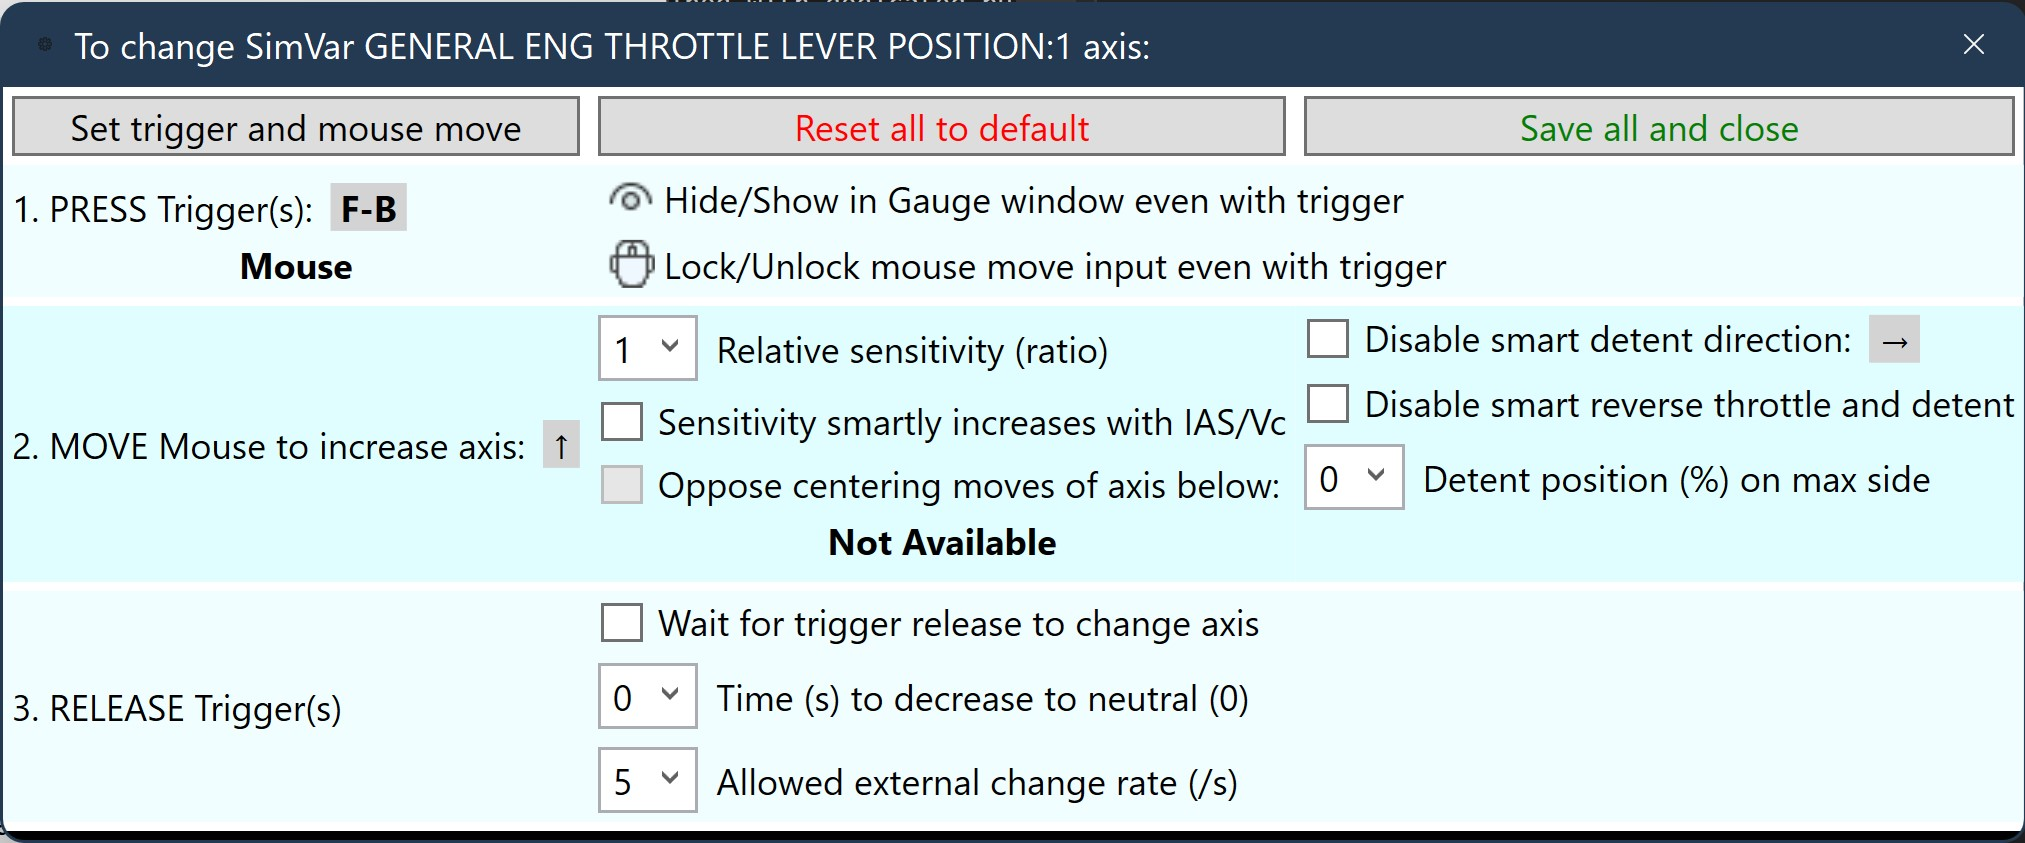
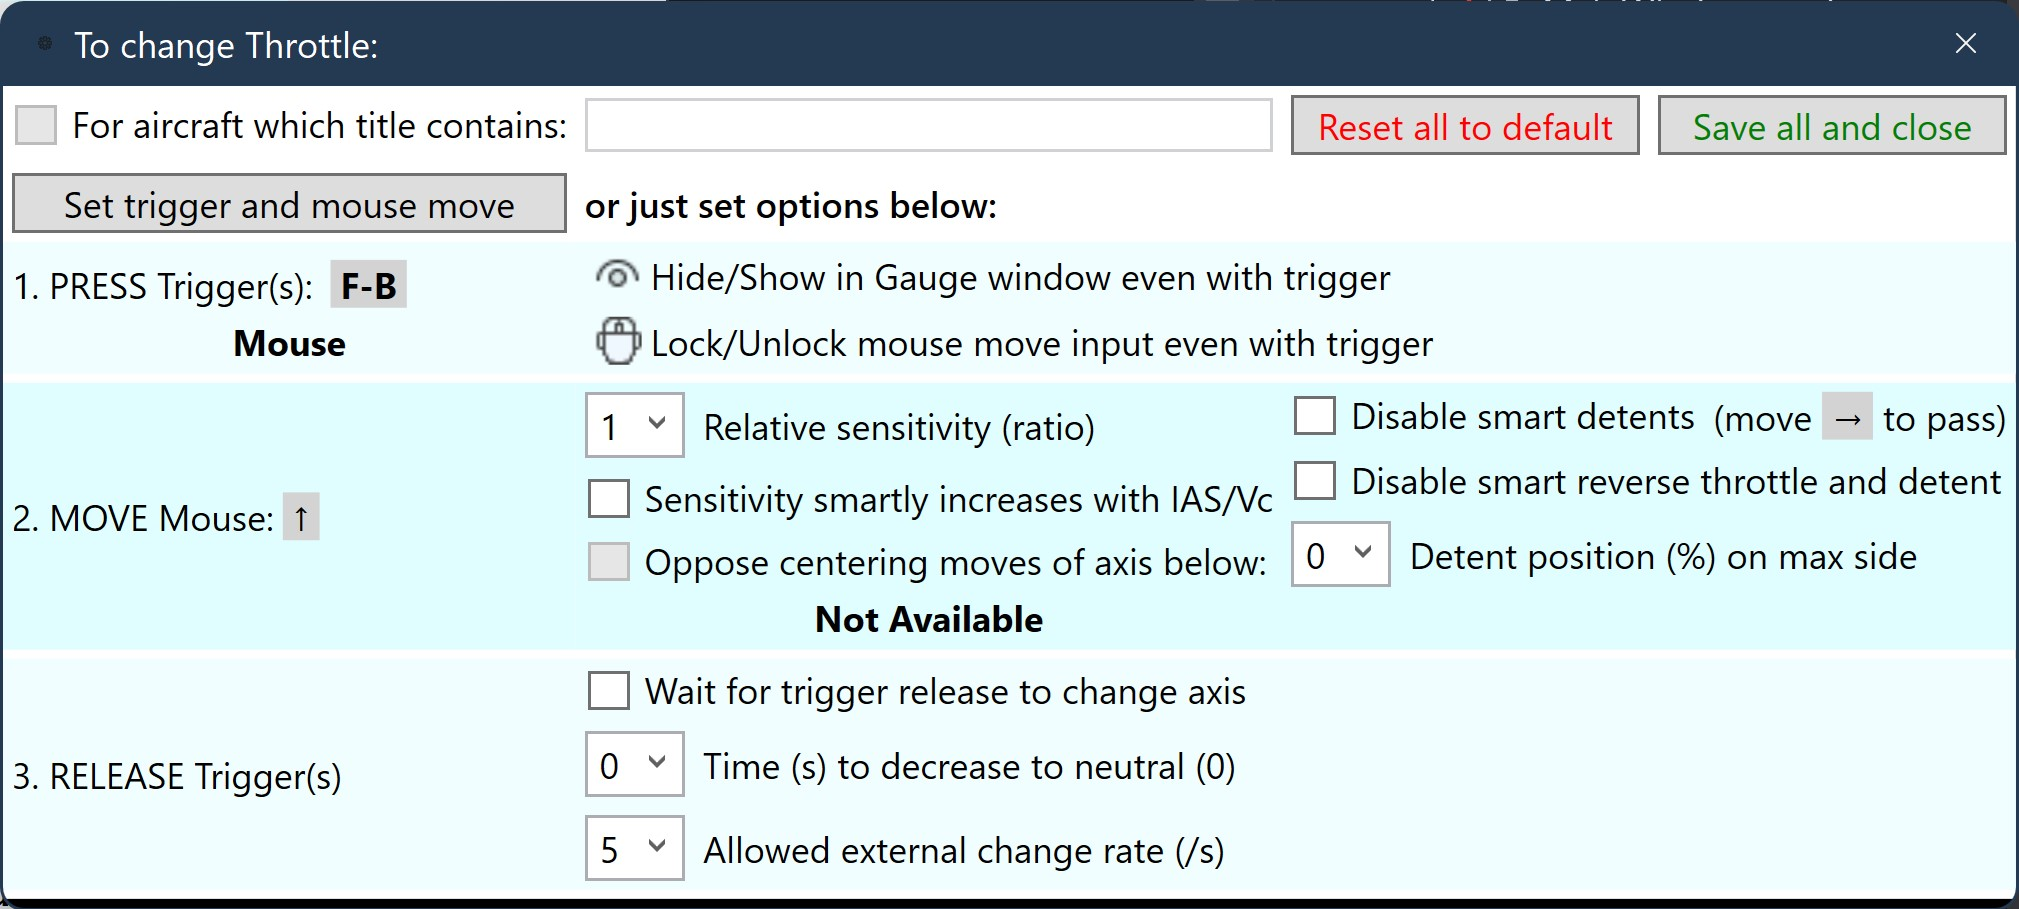
Fix specific settings for aircraft with invalid file chars in name like F/A 18E Adjust jets positive detent WIP Support negative propeller range (turboprop feather)

diff --git a/Source/MainWindow.xaml b/Source/MainWindow.xaml
@@ -126,7 +126,7 @@
             <CheckBox DockPanel.Dock="Left" Style="{StaticResource HideShow}"  
                     IsChecked="{Binding Source={x:Static properties:Settings.Default}, Path=GaugeHidden, Mode=TwoWay}"
                     ToolTip="Hide/Show Gauge window"/>
-            <TextBlock><Run Text="Hide/Show "/><Run Text="Gauge"/><Run Text="s"/><Run Text=" window"/></TextBlock>
+            <TextBlock>Hide/Show Gauges window</TextBlock>
         </DockPanel>
         <DockPanel Margin="0 3 0 0"
                     Visibility="{Binding Source={x:Static properties:Settings.Default}, Path=GaugeSettingsVisible, Converter={StaticResource B2V}}">
@@ -139,7 +139,7 @@
                 <ComboBoxItem>10</ComboBoxItem>
                 <ComboBoxItem>8</ComboBoxItem>
             </ComboBox>
-            <TextBlock><Run Text="Gauge"/><Run Text="s"/><Run Text=" window text size (pt)"/></TextBlock>
+            <TextBlock>Gauges window text size (pt)</TextBlock>
         </DockPanel>
         <DockPanel Margin="0 3 0 0"
                     Visibility="{Binding Source={x:Static properties:Settings.Default}, Path=GaugeSettingsVisible, Converter={StaticResource B2V}}">
@@ -166,7 +166,7 @@
             <TextBlock>Gauge scales width (px)</TextBlock>
         </DockPanel>
         </StackPanel>
-        <TextBlock Margin="0 6 0 0" TextWrapping="Wrap" FontWeight="Bold"><Run Text="Adjust mouse move sensitivity "/><Run Text="if "/><Run Text="needed:"/></TextBlock>
+        <TextBlock Margin="0 6 0 0" TextWrapping="Wrap" FontWeight="Bold">Adjust mouse move sensitivity if needed:</TextBlock>
         <DockPanel Margin="0 3 0 0">
             <ComboBox DockPanel.Dock="Left" Margin="0 0 3 0" Width="50" IsEditable="True"
                 Text="{Binding Source={x:Static properties:Settings.Default}, Path=Sensitivity}">

diff --git a/Source/Axis.cs b/Source/Axis.cs
@@ -249,12 +249,13 @@ namespace HandOnMouse
         }
         public string Save(string aircraftPattern = "")
         {
+            aircraftPattern = aircraftPattern ?? "";
             if (Id < 0)
             {
                 return $"Cannot save axis not correctly read from: {MappingsFilePath}";
             }
             var errors = "";
-            var customFilePath = $"{Path.ChangeExtension(MappingsFilePath, null)}_{MappingName.Replace(":", " ")}_{aircraftPattern ?? ""}.ini";
+            var customFilePath = Path.ChangeExtension(MappingsFilePath, null)+ValidFileName($"_{MappingName}_{aircraftPattern}.ini");
             if (ExternalName.Length > 0)
             {
                 try
@@ -285,17 +286,17 @@ namespace HandOnMouse
         }
         public string Reset(string aircraftPattern)
         {
+            aircraftPattern = ValidFileName(aircraftPattern ?? "");
             if (Id < 0)
             {
                 return $"Cannot reset axis not correctly read from: {MappingsFilePath}";
             }
             var errors = "";
-            aircraftPattern = aircraftPattern ?? "";
             try
             {
                 var file = Path.GetFileName(MappingsFilePath);
                 var dir = Path.GetDirectoryName(MappingsFilePath);
-                var prefix = $"{Path.ChangeExtension(file, null)}_{MappingName.Replace(":"," ")}_";
+                var prefix = Path.ChangeExtension(file, null)+ValidFileName($"_{MappingName}_");
                 foreach (var iniFile in new DirectoryInfo(dir).GetFiles(prefix + "*.ini"))
                 {
                     if ((aircraftPattern=="" && prefix.Length == Path.ChangeExtension(iniFile.Name, null).Length) ||
@@ -319,13 +320,15 @@ namespace HandOnMouse
         public string MappingName { get; private set; }
         public string CustomFilePath(string aircraftPattern = null) => FindBestIniFileFor(aircraftPattern ?? MainWindow.SimAircraftTitle, Path.GetDirectoryName(MappingsFilePath), Path.GetFileName(MappingsFilePath));
         public string AxisFilePath(string aircraftPattern = null) => FindBestIniFileFor(aircraftPattern ?? MainWindow.SimAircraftTitle, Path.GetDirectoryName(MappingsFilePath));
+        public string ValidFileName(string fileName) { foreach (var c in Path.GetInvalidFileNameChars()) { fileName = fileName.Replace(c, '!'); } return fileName; }
 
         // TODO Plane specific file paths
         private string FindBestIniFileFor(string aircraftPattern, string dir, string mappingsFile = "")
         {
+            aircraftPattern = ValidFileName(aircraftPattern);
             Debug.Assert(Directory.Exists(dir));
             var found = "";
-            var prefix = mappingsFile == "" ? $"_{AxisName}_" : $"{Path.ChangeExtension(mappingsFile, null)}_{MappingName.Replace(":", " ")}_";
+            var prefix = mappingsFile == "" ? $"_{ValidFileName(AxisName)}_" : Path.ChangeExtension(mappingsFile, null)+ValidFileName($"_{MappingName}_");
             foreach (var iniFile in new DirectoryInfo(dir).GetFiles(prefix+"*.ini"))
             {
                 var suffix = Path.ChangeExtension(iniFile.Name.Remove(0, prefix.Length), null);

diff --git a/CHANGELOG.md b/CHANGELOG.md
@@ -3,11 +3,19 @@ MSFS Utility to keep your HandOnMouse for easier/better flying
 
 ## Version 3.1
 
-Incompatible changes to mappings file
+BETA version
+
+Please install in a separate place than version 2 as some user mappings files changed. 
+Customized .ini mappings files from version 3.1 "Mappings" folder CANNOT be copied to the new version "Mappings" folder.
+* Allows aircraft specific settings from mappings files and the user interface
+* Handle negative propeller range for turboprop feathering
+* Defines specific Throttle detents for: A320, CJ4, F/A 18E, VL3 915
+* Defines specific trim sensitivity for some aircrafts
+* Improves some more usability (Gauge window emphasized, more tooltips, etc.)
 
 ## Version 3.0
 
-ALPHA version, testing with MSFS Sim Update 9 to do
+ALPHA version
 
 Please install in a separate place than version 2 as some user configuration settings changed. 
 Customized .ini mappings files from version 2 "Mappings" folder can be copied to the new version "Mappings" folder without change.
